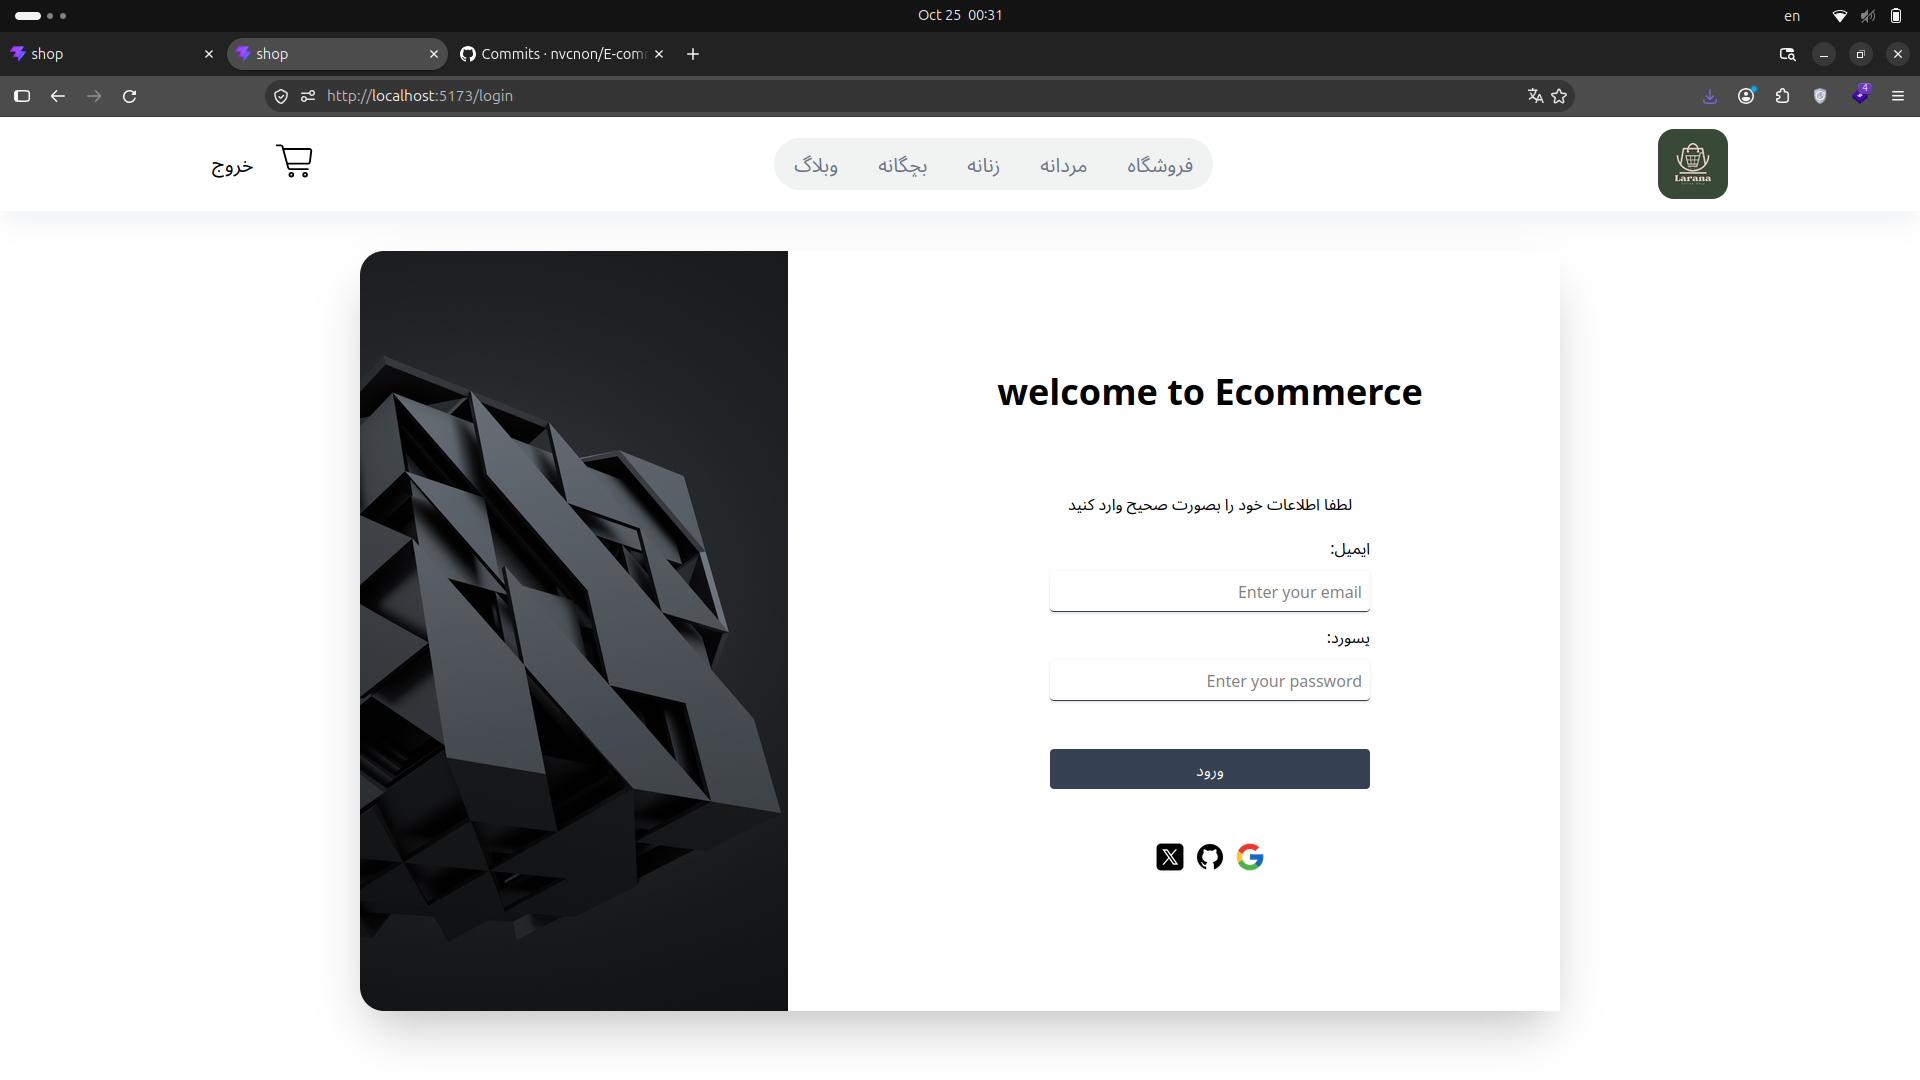
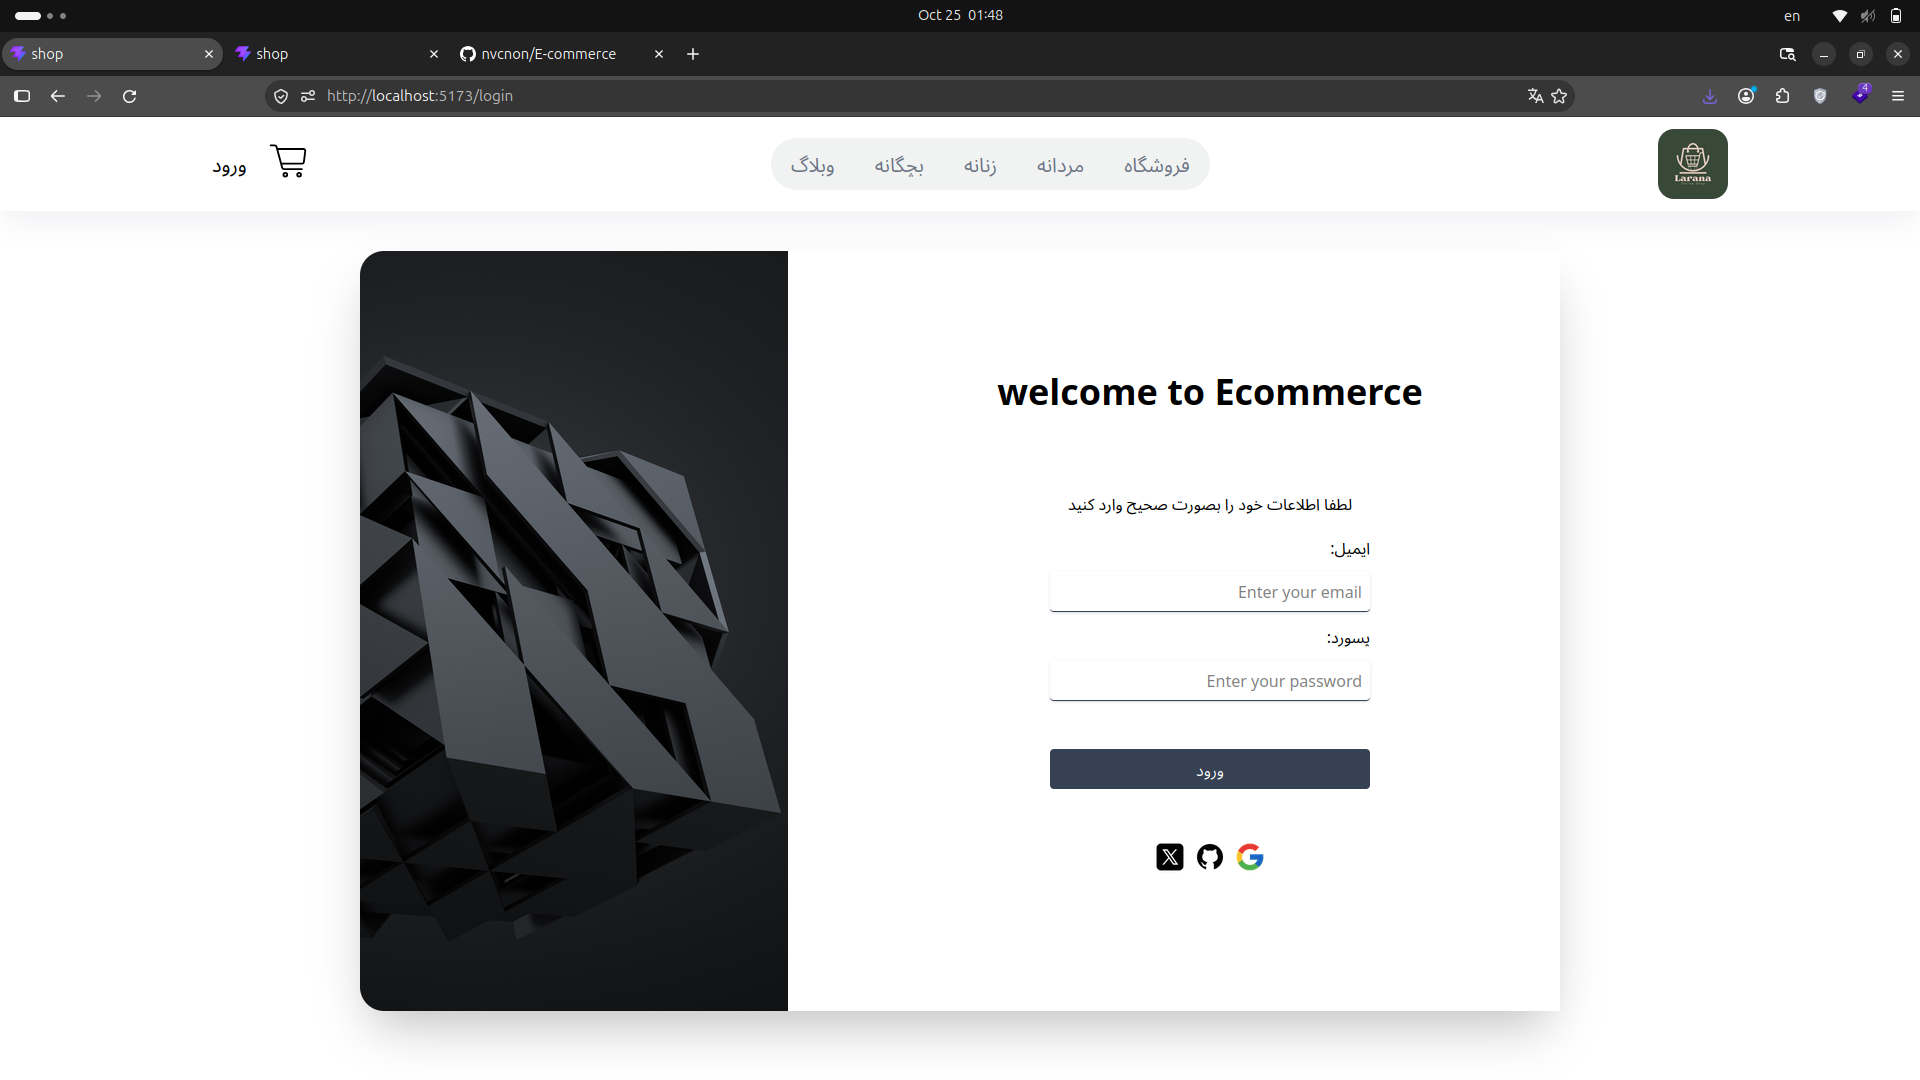
feat: add condition button to Navbar

diff --git a/src/components/layout/Navbar.tsx b/src/components/layout/Navbar.tsx
@@ -7,6 +7,7 @@ const Navbar = () => {
   const location = useLocation();
   const searchParams = new URLSearchParams(location.search);
   const activeCategory = searchParams.get("category");
+  const { isLogin } = useAuthContext();
 
   const navItems = [
     { title: "فروشگاه", path: "/store" },
@@ -122,12 +123,21 @@ const Navbar = () => {
               </svg>
             </Link>
 
-            <button
-              onClick={handleLogOut}
-              className="shrink-0 rounded-4xl px-3 py-2 text-sm transition-colors hover:bg-mist-300 sm:px-5 sm:py-3 sm:text-base lg:text-xl"
-            >
-              خروج
-            </button>
+            {isLogin ? (
+              <button
+                onClick={handleLogOut}
+                className="shrink-0 rounded-4xl px-3 py-2 text-sm transition-colors hover:bg-mist-300 sm:px-5 sm:py-3 sm:text-base lg:text-xl"
+              >
+                خروج
+              </button>
+            ) : (
+              <button
+                onClick={handleLogOut}
+                className="shrink-0 rounded-4xl px-3 py-2 text-sm transition-colors hover:bg-mist-300 sm:px-5 sm:py-3 sm:text-base lg:text-xl"
+              >
+                ورود
+              </button>
+            )}
           </div>
         </div>
       </Container>

diff --git a/src/services/api.ts b/src/services/api.ts
@@ -2,7 +2,7 @@ import axios from "axios";
 import type { Product } from "../types/product";
 
 const client = axios.create({
-  baseURL: "http://localhost:3000",
+  baseURL: "http://localhost:8000",
 });
 
 export async function getProducts() {
